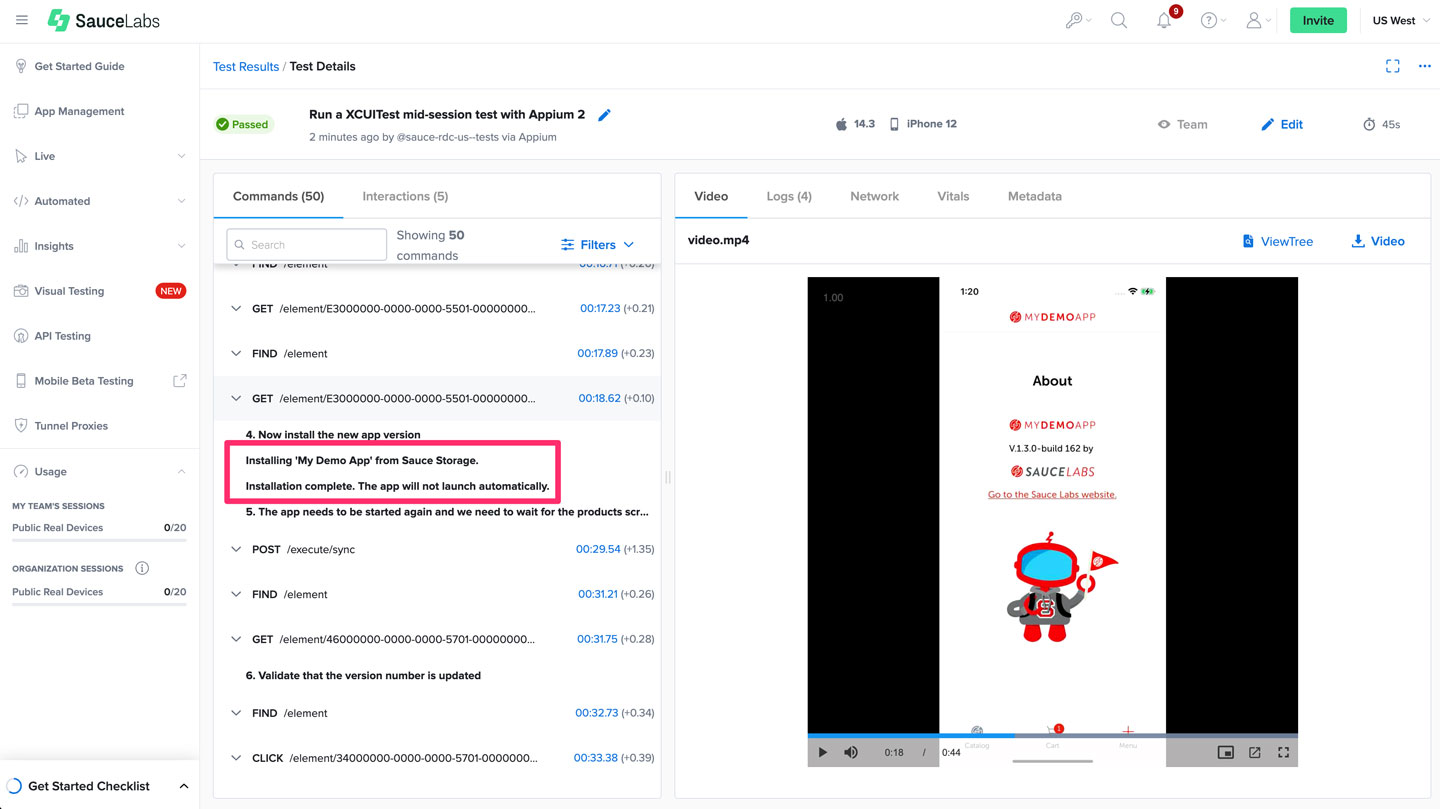
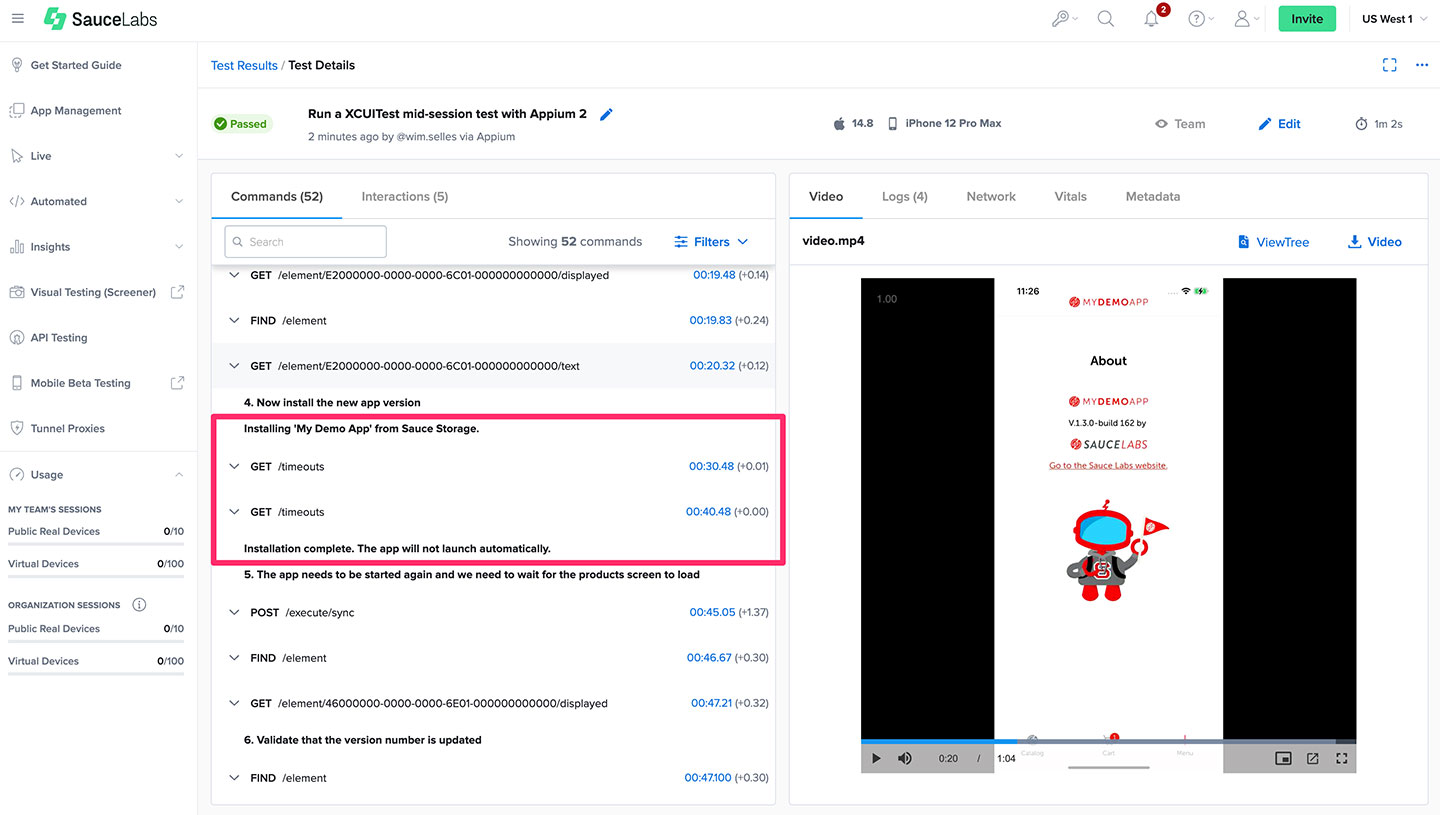
update docs

diff --git a/docs/mobile-apps/automated-testing/appium/test-app-upgrades.md b/docs/mobile-apps/automated-testing/appium/test-app-upgrades.md
@@ -9,12 +9,9 @@ import useBaseUrl from '@docusaurus/useBaseUrl';
 import Tabs from '@theme/Tabs';
 import TabItem from '@theme/TabItem';
 
-
 As app developers, we often release newer versions of our applications to customers on a regular basis. In these instances, users are typically upgrading from an older version rather than installing the app from scratch. This transition may involve the migration of existing user data for the application to function correctly, which makes the testing of app upgrades a crucial step in the development process. By testing app upgrades, we can ensure that our application continues to operate as expected even following an upgrade.
 
 But app upgrades aren't the only scenario where you might need to install apps during a running session. Sometimes, your app's functionality might rely on other dependent applications. In such cases, testing your app's interplay with these dependencies becomes essential. For instance, if your application pulls data from or interacts with another app, you'd want to ensure that this interaction remains smooth even after an upgrade. This makes the ability to install dependent apps during a run an invaluable feature for comprehensive testing.
-
-
 
 :::caution Important
 Installing apps mid-session from the Sauce Storage is only supported in our Real Device Cloud.
@@ -94,12 +91,49 @@ driver.ExecuteScript("mobile: installApp", new Dictionary<string, string> { { "a
 </TabItem>
 </Tabs>
 
-When installing apps mid-session, the app is not automatically launched. You will need to launch the app manually using the followings commands after installation:
+A successful installation will return the following response which can be used to validate if the right version of the app was installed:
+
+<Tabs
+groupId="install-app-response"
+defaultValue="android"
+values={[
+{label: 'Android', value: 'android'},
+{label: 'iOS', value: 'ios'},
+]}>
+
+<TabItem value="android">
+
+<!-- prettier-ignore -->
+```json
+{
+  "packageName": "com.saucelabs.mydemoapp.android",
+  "version": "1.5.0",
+  "buildNumber": "274"
+}
+```
+
+</TabItem>
+
+<TabItem value="ios">
+
+<!-- prettier-ignore -->
+```json
+{
+  "bundleId": "com.saucelabs.mydemoapp.ios",
+  "version": "1.5.0",
+  "buildNumber": "191"
+}
+```
+
+</TabItem>
+</Tabs>
+
+By default, Appium will not automatically launch the app after a mid-session install. You will need to launch the app manually using the followings commands after installation:
 
 - **iOS:** `mobile: launchApp`
 - **Android:** `mobile: startActivity`
 
-For clarity, we added two extra text lines in the Appium Commands list in the Sauce Labs UI to indicate that the app has been installed and needs to be launched manually.
+For clarity, we added two extra text lines in the Appium Commands list in the Sauce Labs UI to indicate that the app has been installed and needs to be launched manually. You will also see that that the command `GET /timeouts` is called. This is a "heartbeat" to keep the session alive when installing the app takes longer than the default timeout of 60 seconds. It will ensure that the Appium session will not timeout before the app is installed and is set to a maximum of 5 minutes.
 
 <img src={useBaseUrl('img/mobile-apps/appium-mid-session-logs.jpg')} alt="Mid session install logs" width="800" />
 
@@ -183,13 +217,12 @@ This is an example test execution that installs an app mid-session, launches it,
   <source src={useBaseUrl('img/mobile-apps/mid-session-app-upgrade.mp4')} />
 </video>
 
-
 ## Limitations
 
 While this feature provides a great deal of flexibility, there are certain limitations to ensure the integrity and security of the testing environment:
 
 - Only apps uploaded to our Sauce Storage can be installed. Installations from external locations are not permitted, see [FAQ](#faq).
-- Downgrading apps is not supported by Sauce Labs due to the fact that this is not a supported flow by the Apple and Google ecosystem. Sauce Labs supports only upgrading apps to newer versions and installing additional apps or dependencies necessary for testing your main application. 
+- Downgrading apps is not supported by Sauce Labs due to the fact that this is not a supported flow by the Apple and Google ecosystem. Sauce Labs supports only upgrading apps to newer versions and installing additional apps or dependencies necessary for testing your main application.
 - We do **not** capture or provide logs for the newly installed app upgrade. This includes network logs, device vitals, and crash logs. This is primarily because our logging system is designed to track the main app under test and adding additional apps mid-session could potentially muddle the clarity and focus of the logging data.
 
 Despite these limitations, the ability to install additional apps or upgrades mid-session significantly expands the scope and effectiveness of your testing process. It allows you to mimic real-world user behavior more accurately and test the resilience of your app in a broader set of scenarios.
@@ -203,5 +236,9 @@ This message indicates that there's been a problem installing the application fr
 #### I'm getting the error `Only apps from Sauce Storage are supported.`
 
 This error message appears when there's an attempt to install an app from an external location, which is not supported. Make sure to upload your app to our storage first.
+
+#### My framework times out before the app is installed.
+
+Installing apps mid-session can take longer than the default timeout of 60 seconds. To ensure that the Appium session will not timeout before the app is installed, we implemented a heartbeat to keep the session alive. This heartbeat is implemented by calling the `GET /timeouts` endpoint every 10 seconds to keep the session alive for a maximum of 5 minutes. If your framework times out before the app is installed, you need to increase the test session timeout in your framework. Please refer to the documentation of your framework for more information.
 
 Should you encounter any other problems or have additional questions, don't hesitate to reach out to our support team.
